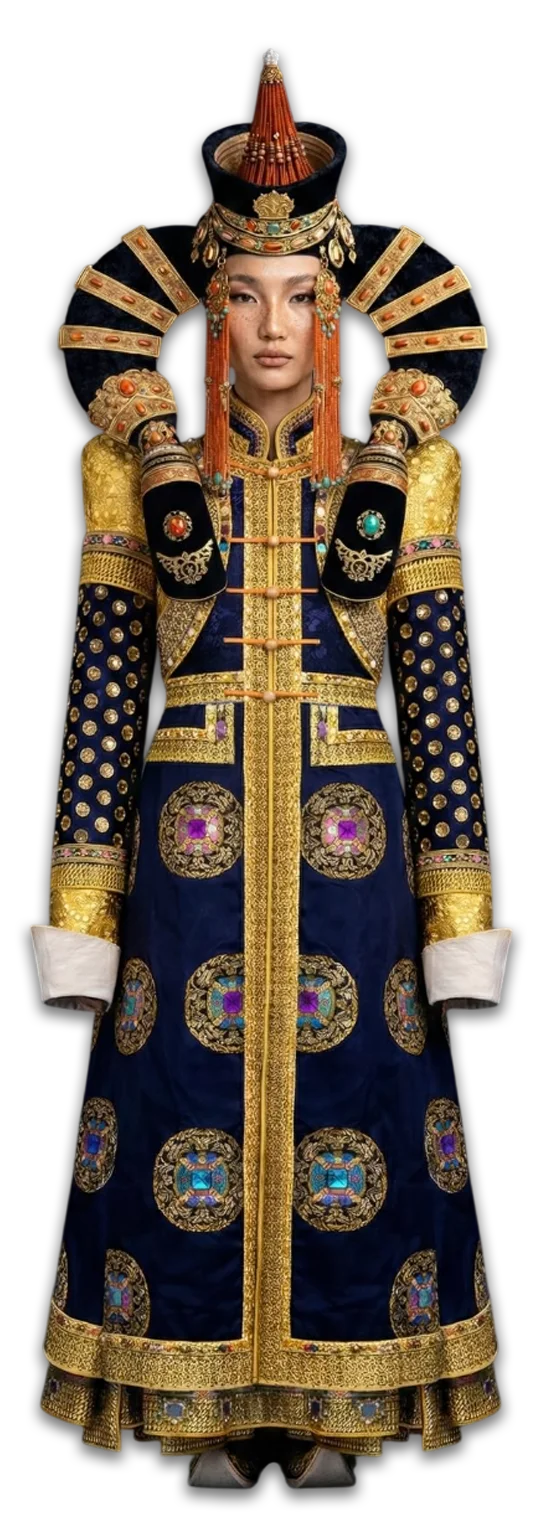
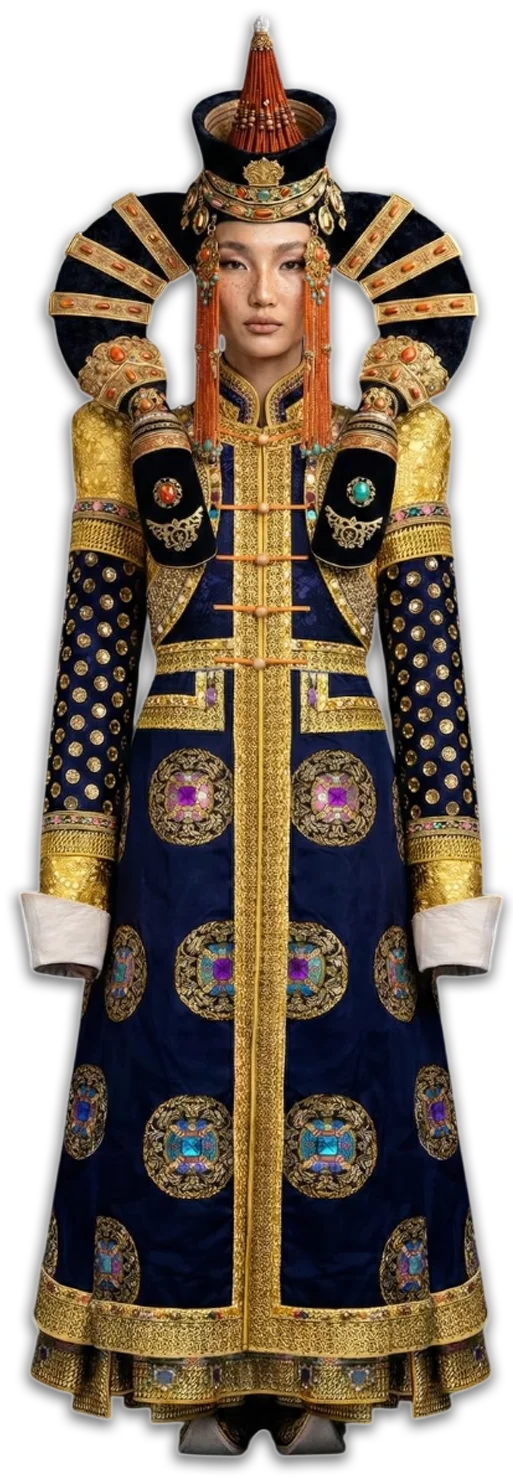
Change clouds images and main page image (U-Ude draw)

diff --git a/assets/css/style.css b/assets/css/style.css
@@ -130,6 +130,18 @@ button {
   cursor: pointer;
 }
 
+/* Улучшение читаемости текста поверх облаков */
+h1,
+h2,
+h3,
+p,
+li,
+a,
+span,
+strong {
+  text-shadow: 0 1px 2px rgba(255, 255, 255, 0.55);
+}
+
 .container {
   width: min(100% - 32px, var(--max));
   margin: 0 auto;
@@ -291,15 +303,26 @@ button {
   align-items: center;
 }
 
+/* Подложка под главный текстовый блок */
+.hero-copy {
+  background: rgba(255, 255, 255, 0.56);
+  border: 1px solid rgba(172, 150, 124, 0.22);
+  border-radius: 22px;
+  padding: 26px 24px;
+  box-shadow: 0 10px 26px rgba(47, 36, 28, 0.08);
+  backdrop-filter: blur(8px);
+}
+
 .hero-copy h1 {
   font-size: clamp(2.3rem, 5vw, 4.3rem);
   line-height: 1.05;
   margin: 0 0 16px;
+  font-weight: 800;
 }
 
 .hero-copy p {
   font-size: 1.06rem;
-  color: var(--muted);
+  color: #4f433b;
   max-width: 58ch;
   margin: 0 0 24px;
 }
@@ -350,6 +373,15 @@ button {
   align-items: end;
   gap: 16px;
   margin-bottom: 28px;
+}
+
+/* Подложка под заголовки секций */
+.section-head > div {
+  background: rgba(255, 255, 255, 0.44);
+  border: 1px solid rgba(172, 150, 124, 0.18);
+  border-radius: 18px;
+  padding: 14px 18px;
+  backdrop-filter: blur(6px);
 }
 
 .section-head h2 {
@@ -648,9 +680,19 @@ button {
   padding: 48px 0 12px;
 }
 
+/* Подложка под заголовки внутренних страниц */
+.page-title .container {
+  background: rgba(255, 255, 255, 0.48);
+  border: 1px solid rgba(172, 150, 124, 0.18);
+  border-radius: 22px;
+  padding: 22px 24px;
+  backdrop-filter: blur(6px);
+}
+
 .page-title h1 {
   margin: 0 0 12px;
   font-size: clamp(2rem, 4vw, 3.3rem);
+  font-weight: 800;
 }
 
 .page-title p {
@@ -708,6 +750,10 @@ button {
 
   .container {
     width: min(100% - 40px, var(--max));
+  }
+
+  .hero-copy {
+    padding: 22px 20px;
   }
 }
 
@@ -803,6 +849,12 @@ button {
       url("../images/male.webp") left 0 bottom / auto 300px no-repeat,
       url("../images/fem.webp") right 0 bottom / auto 300px no-repeat;
   }
+
+  .hero-copy,
+  .page-title .container,
+  .section-head > div {
+    padding: 18px;
+  }
 }
 
 @media (max-width: 640px) {
@@ -850,6 +902,17 @@ button {
 
   .container {
     width: min(100% - 24px, var(--max));
+  }
+
+  h1,
+  h2,
+  h3,
+  p,
+  li,
+  a,
+  span,
+  strong {
+    text-shadow: 0 1px 1px rgba(255, 255, 255, 0.45);
   }
 }
 

diff --git a/ru/index.html b/ru/index.html
@@ -35,7 +35,7 @@
     <section class="hero">
       <div class="container hero-grid">
         <div class="hero-copy">
-          <h1>Спокойный буддийский центр в Бруклине</h1>
+          <h1>Буддийский центр в Бруклине</h1>
           <p>Shambala NYC - это гостеприимное место для медитации, обучения, культурных программ и общения сообщества.</p>
           <div class="hero-actions">
             <a class="btn btn-primary" href="pages/programs.html">Смотреть программы</a>
@@ -43,7 +43,7 @@
           </div>
         </div>
         <div class="hero-card">
-          <img src="https://images.unsplash.com/photo-1528360983277-13d401cdc186?auto=format&fit=crop&w=1200&q=80" alt="Буддийский центр" />
+          <img src="\assets\images\city\uude.webp" alt="Буддийский центр" />
         </div>
       </div>
     </section>

diff --git a/en/index.html b/en/index.html
@@ -35,7 +35,7 @@
     <section class="hero">
       <div class="container hero-grid">
         <div class="hero-copy">
-          <h1>A peaceful Buddhist center in Brooklyn</h1>
+          <h1>Buddhist center in Brooklyn</h1>
           <p>Shambala NYC is a welcoming place for meditation, study, cultural programs, and community connection.</p>
           <div class="hero-actions">
             <a class="btn btn-primary" href="pages/programs.html">Explore programs</a>
@@ -43,7 +43,7 @@
           </div>
         </div>
         <div class="hero-card">
-          <img src="https://images.unsplash.com/photo-1528360983277-13d401cdc186?auto=format&fit=crop&w=1200&q=80" alt="Buddhist center" />
+          <img src="\assets\images\city\uude.webp" alt="Buddhist center" />
         </div>
       </div>
     </section>
